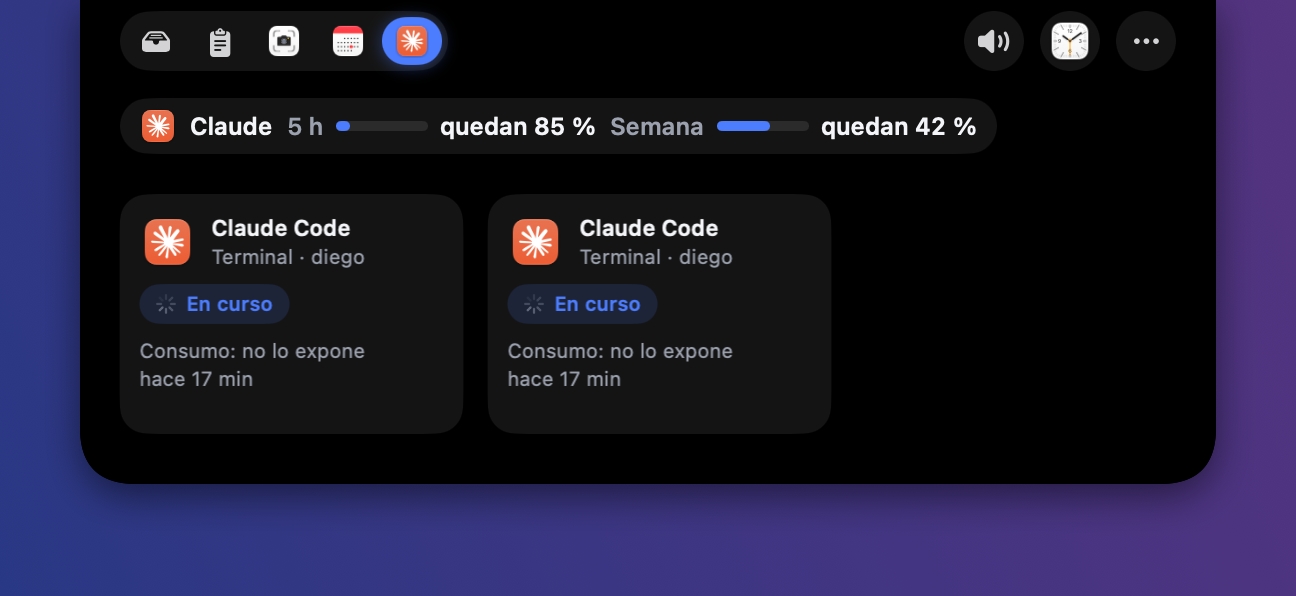
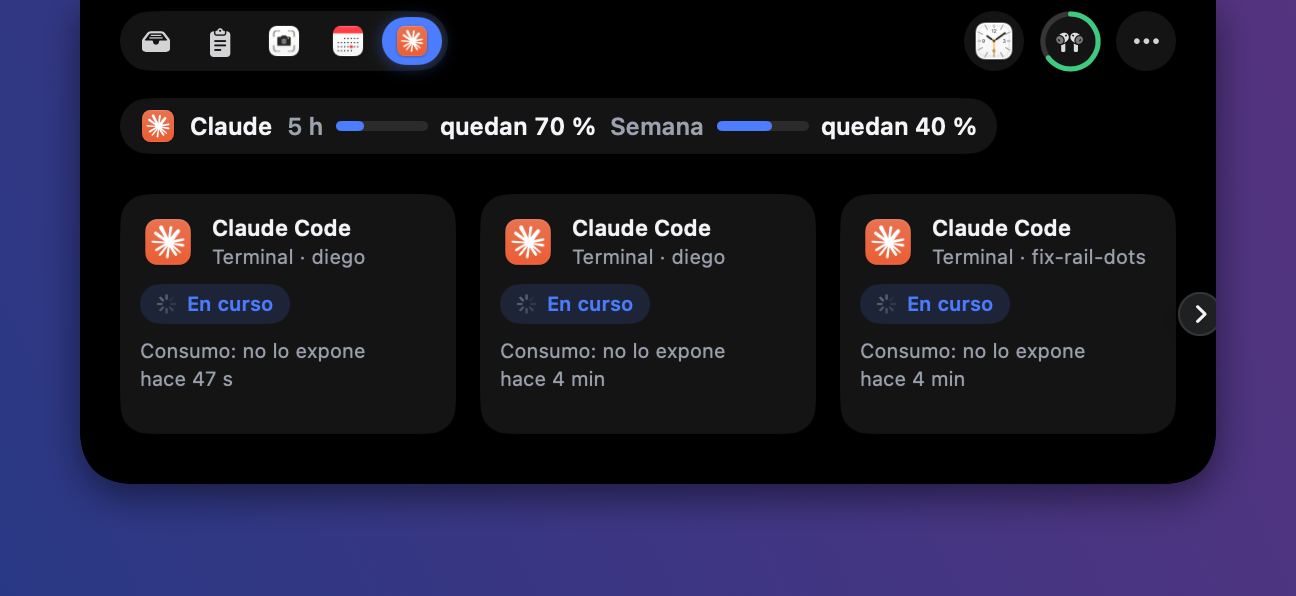
README visual, licencia MIT y ajustes del carrusel (0.17.0)
- README para quien lo descarga: para qué sirve, con capturas de demostración
- Licencia MIT
- El carrusel sigue al principio cuando llega algo nuevo; flechas en el margen
- Tres tarjetas de agentes por fila

diff --git a/Nook/DesignSystem/Carousel.swift b/Nook/DesignSystem/Carousel.swift
@@ -41,15 +41,20 @@ struct Carousel<Data: RandomAccessCollection, Card: View>: View where Data.Eleme
         .mask(Rectangle().padding(.horizontal, -6))
         .onGeometryChange(for: CGFloat.self) { $0.size.width } action: { viewport = $0 }
         .overlay(alignment: .leading) {
-            if canGoBack { arrow(-1).offset(x: -10) }
+            if canGoBack { arrow(-1).offset(x: -(margin + 1)) }
         }
         .overlay(alignment: .trailing) {
             // Siempre a la vista: asi se sabe que hay mas sin pasar el raton.
-            if canGoForward { arrow(1).offset(x: 10) }
+            if canGoForward { arrow(1).offset(x: margin + 1) }
         }
         .animation(AppMotion.snappy, value: canGoBack)
         .animation(AppMotion.snappy, value: canGoForward)
         .padding(.horizontal, margin)
+        // Si llega algo nuevo delante y estabas al principio, se sigue al principio.
+        .onChange(of: ids.first) { old, new in
+            guard let new, position == nil || position == old else { return }
+            withAnimation(AppMotion.snappy) { position = new }
+        }
     }
 
     /// Hueco para que quepan tarjetas enteras: tantas como entren con el minimo y
@@ -95,9 +100,9 @@ private struct CarouselArrow: View {
     var body: some View {
         Button(action: action) {
             Image(systemName: icon)
-                .font(.system(size: 12, weight: .bold))
+                .font(.system(size: 10, weight: .bold))
                 .foregroundStyle(AppColors.textPrimary)
-                .frame(width: 30, height: 30)
+                .frame(width: 22, height: 22)
                 .background(.regularMaterial, in: Circle())
                 .overlay(Circle().strokeBorder(AppColors.cardBorder, lineWidth: 1))
                 .shadow(color: AppColors.shadow, radius: 6, y: 2)

diff --git a/Nook/Features/Agents/AgentsView.swift b/Nook/Features/Agents/AgentsView.swift
@@ -32,7 +32,7 @@ struct AgentsView: View {
                     .frame(maxWidth: .infinity)
                     .frame(height: NotchMetrics.cardRowHeight)
             } else {
-                Carousel(data: monitor.sessions) { _, session in
+                Carousel(data: monitor.sessions, minSpacing: 8) { _, session in
                     Button { monitor.focus(session) } label: { AgentCard(session: session) }
                         .buttonStyle(.plain)
                         .help(Text("Ir a su terminal"))
@@ -188,7 +188,7 @@ private struct AgentCard: View {
             .lineLimit(1)
         }
         .padding(10)
-        .frame(width: 172, height: 120, alignment: .topLeading)
+        .frame(width: 168, height: 120, alignment: .topLeading)
         .liquidGlass(in: RoundedRectangle(cornerRadius: 14, style: .continuous))
     }
 

diff --git a/Nook/Features/Onboarding/OnboardingView.swift b/Nook/Features/Onboarding/OnboardingView.swift
@@ -462,7 +462,7 @@ struct NoticeGrid: View {
             Chip(symbol: "arrow.down.circle.fill", title: "Descargas", isOn: $downloads)
             Chip(symbol: "capslock.fill", title: "Bloq Mayús", isOn: $capsLock)
             Chip(symbol: "wifi", title: "Conexión", isOn: $network)
-            Chip(symbol: "mic.fill", title: "Micro en llamadas", isOn: $media)
+            Chip(symbol: "mic.fill", title: "Llamadas", isOn: $media)
             Chip(symbol: "video.fill", title: "Reuniones", isOn: $meetings)
             Chip(symbol: "envelope.fill", title: "Correo", isOn: $mailNotice)
             Chip(symbol: "bell.fill", title: "Notificaciones", isOn: $notifications)

diff --git a/Nook/DesignSystem/AppMotion.swift b/Nook/DesignSystem/AppMotion.swift
@@ -9,7 +9,7 @@ enum AppMotion {
     }
 
     /// Apertura: el panel sale del centro del notch y se agranda con un rebote suave
-    /// (mismo muelle que Droppy: 0,47 / 0,76).
+    /// (muelle 0,47 / 0,76).
     static var open: Animation {
         reduceMotion ? .easeInOut(duration: 0.15) : .spring(response: 0.47, dampingFraction: 0.76)
     }

diff --git a/README.md b/README.md
@@ -5,123 +5,116 @@
 <h1 align="center">Nook</h1>
 
 <p align="center">
-  <strong>El notch de tu Mac convertido en un sitio útil.</strong><br>
-  Bandeja de archivos, historial del portapapeles, calendario, correo, agentes de IA,
-  temporizadores y avisos del sistema, todo a un gesto del ratón.
+  <strong>El notch de tu Mac, convertido en un sitio útil.</strong><br>
+  Pasa el ratón por arriba y tienes a mano tus archivos, lo que copiaste, tu agenda,<br>
+  tu correo y tus agentes de IA. Sin ventanas, sin buscar, sin taparte nada.
 </p>
 
 <p align="center">
-  <img src="https://img.shields.io/badge/macOS-14.2%2B-1F5BFF" alt="macOS 14.2+">
-  <img src="https://img.shields.io/badge/Swift-SwiftUI%20%2B%20AppKit-1F5BFF" alt="Swift">
-  <img src="https://img.shields.io/badge/firmada-Developer%20ID%20%2B%20notarizada-4C7DFF" alt="Firmada y notarizada">
-  <img src="https://img.shields.io/badge/idiomas-ES%20%7C%20EN-4C7DFF" alt="ES y EN">
+  <img src="https://img.shields.io/badge/macOS-14.2%2B-1F5BFF" alt="macOS 14.2 o posterior">
+  <img src="https://img.shields.io/badge/firmada%20y%20notarizada-por%20Apple-4C7DFF" alt="Firmada y notarizada">
+  <img src="https://img.shields.io/badge/español%20%7C%20english-4C7DFF" alt="Español e inglés">
+  <img src="https://img.shields.io/badge/licencia-MIT-4C7DFF" alt="Licencia MIT">
 </p>
 
 <p align="center">
-  <img src="docs/images/bandeja.png" width="720" alt="Panel de Nook abierto bajo el notch con cuatro archivos en la bandeja">
+  <img src="docs/images/bandeja.png" width="760" alt="Nook abierto bajo el notch con cuatro archivos en la bandeja">
 </p>
 
 ---
 
-## Cómo funciona
+## Deja cosas a mano
 
-Pasa el ratón por el notch y el panel sale de él con un muelle suave. Cerrado, el notch
-mide exactamente lo mismo que el recorte de la pantalla (MacBook Air y MacBook Pro); cuando
-pasa algo, se ensancha lo justo para avisarte a los lados y vuelve a su sitio.
+Arrastra un archivo, una imagen o un texto al notch y ahí se queda hasta que lo necesites.
+Luego lo sacas arrastrando a donde quieras: un correo, un chat, una carpeta. Aunque cierres
+el Mac, sigue ahí.
 
-Arriba están las pestañas (bandeja, portapapeles, capturas, calendario, agentes) y, a la
-derecha, el reloj con temporizadores y alarmas, la batería de tus AirPods (cuando están
-conectados) y el menú.
+> ¿Arrastrando y sin llegar al notch? **Agita el ratón** y aparece una cesta flotante.
 
-## Bandeja
-
-Arrastra archivos, imágenes o texto al notch y se quedan a mano, con su vista previa real,
-hasta que los saques arrastrando. Nook guarda una copia, así que siguen ahí aunque borres el
-original o reinicies el Mac.
-
-- **Cesta al agitar:** agita el ratón mientras arrastras archivos y aparece una cesta flotante.
-- **Vista previa grande y Quick Look**, compartir por AirDrop, comprimir en `.zip`, convertir
-  imágenes (PNG, JPEG, HEIC) y copiar el texto de una imagen (OCR local).
-- Con más de los que caben, las tarjetas pasan en **carrusel**: flechas a los lados y
-  desplazamiento lateral.
-
-## Historial del portapapeles
+## Recupera lo que copiaste
 
 <p align="center">
-  <img src="docs/images/historial.png" width="720" alt="Historial del portapapeles con buscador y filtros por tipo">
+  <img src="docs/images/historial.png" width="760" alt="Historial del portapapeles con un enlace, una dirección, un comando y una nota">
 </p>
 
-Todo lo que copias queda guardado (texto, enlaces, imágenes y archivos) con el icono de la
-app de origen. Filtra por tipo, busca, incluso dentro de las imágenes, y fija lo importante.
+Todo lo que copias queda guardado: textos, enlaces, imágenes y archivos. Busca lo que
+copiaste ayer (incluso el texto que hay dentro de una captura) y pégalo con
+<kbd>⌃</kbd> <kbd>⌘</kbd> <kbd>V</kbd> desde cualquier app. Las contraseñas no se guardan.
 
-- <kbd>⌃</kbd> <kbd>⌘</kbd> <kbd>V</kbd> desde cualquier app abre el historial; al elegir, se
-  pega directamente donde estabas.
-- Lo que los gestores de contraseñas marcan como privado no se guarda. Nunca se borra solo.
+## Tu día de un vistazo
 
-## Agentes de IA
+- **Agenda** de hoy y los próximos días, con un botón para **unirte a la reunión** y una
+  cuenta atrás en el notch cuando está a punto de empezar.
+- **Recordatorios** pendientes, para tacharlos sin abrir nada.
+- **Escribe y listo:** «Café con Ana mañana a las 10» crea el evento.
+- **Correo:** quién te ha escrito y de qué va. Ábrelo y léelo en el propio notch, responde
+  o márcalo como leído. Funciona con Mail y con Outlook.
+
+## Tus agentes de IA, sin perderlos de vista
 
 <p align="center">
-  <img src="docs/images/agentes.png" width="720" alt="Pestaña de agentes con dos sesiones de Claude Code en curso y el consumo restante">
+  <img src="docs/images/agentes.png" width="760" alt="Tres sesiones de Claude Code en curso y el consumo restante de la suscripción">
 </p>
 
-Las sesiones de agentes de código abiertas en tu Mac, con su estado (en curso, esperando,
-terminado), el proyecto y el consumo que queda en la ventana de 5 horas y en la semana.
+Si trabajas con agentes de código, Nook te avisa **cuando uno termina o se queda esperando
+tu respuesta**. Un clic en su tarjeta y estás en su terminal. Y ves cuánto te queda de la
+suscripción antes de quedarte sin.
 
-## Calendario, recordatorios y correo
+## Avisos que no estorban
 
-- **Calendario** de Apple con todas tus cuentas de *Cuentas de Internet*, incluido Microsoft
-  365/Outlook. Entrada rápida en lenguaje natural ("Café con Ana mañana a las 10").
-- **Recordatorios del día**: vencidos, de hoy y sin fecha, con su casilla para completarlos.
-  Si escribes algo sin fecha en la entrada rápida, se guarda como recordatorio.
-- **Controles de reunión**: cuenta atrás antes de cada reunión y botón para unirte.
-- **Correo sin leer** de Mail o de Outlook clásico: quién te escribe y el asunto, y un aviso
-  en el notch al llegar uno nuevo.
+Volumen, batería, AirPods conectados, descargas terminadas, reuniones, correos nuevos,
+notificaciones… salen a los lados del notch un momento y se van. Nunca tapan los iconos de
+la barra de menús: si no hay sitio en un lado, usan el otro.
 
-## Avisos en el notch
+Con tus **AirPods** puestos, verás su batería en un aro; un clic y tienes la de cada
+auricular y la del estuche.
 
-Volumen, batería y cargador, auriculares y altavoces Bluetooth (con su batería), conexión y
-VPN, descargas terminadas, micrófono o cámara durante una llamada, notificaciones del sistema,
-temporizadores y alarmas. Cada aviso crece solo hasta los menús y los iconos de la barra, sin
-taparlos, y se puede desactivar en Ajustes.
+## Y unos cuantos atajos
 
-**AirPods:** con ellos conectados, la cabecera muestra su modelo en un aro de batería; al
-pulsarlo ves el izquierdo, el derecho y el estuche.
-
-## Atajos y herramientas
-
-| Atajo | Qué hace |
+| | |
 |---|---|
-| <kbd>⌥</kbd> <kbd>Espacio</kbd> | **Lanzador**: abre apps y archivos, calcula (`15% de 80`) y convierte unidades (`10 km en mi`). |
-| <kbd>⌃</kbd> <kbd>⌘</kbd> <kbd>V</kbd> | Historial del portapapeles. |
+| <kbd>⌥</kbd> <kbd>Espacio</kbd> | Abre apps y archivos, calcula y convierte unidades. |
+| <kbd>⌃</kbd> <kbd>⌘</kbd> <kbd>V</kbd> | Historial de lo que has copiado. |
 | <kbd>⌃</kbd> <kbd>⌥</kbd> <kbd>Espacio</kbd> | Anillo de acciones junto al cursor. |
-| <kbd>⌃</kbd> <kbd>⌥</kbd> + flechas | Ajustar ventanas: mitades, cuartos, tercios, maximizar y centrar. |
+| <kbd>⌃</kbd> <kbd>⌥</kbd> + flechas | Coloca la ventana a la mitad, en un cuarto, a pantalla completa… |
+| Seleccionar texto | Cópialo, búscalo, tradúcelo o guárdalo con un clic. |
 
-Además: acciones al seleccionar texto (copiar, buscar, traducir, a la bandeja), dictado,
-captura de una zona con OCR.
+## Se configura solo, paso a paso
 
-## Primer arranque y permisos
+La primera vez que lo abres, Nook te acompaña: qué es, cómo conectar tu calendario y tu
+correo (Apple u Outlook), qué permisos desbloquean qué y qué atajos quieres. Todo es
+opcional y se puede cambiar después.
 
-Al abrir Nook por primera vez, una introducción te guía: calendario y recordatorios, correo
-(Mail de Apple u Outlook), permisos avanzados y qué atajos y avisos quieres. Nook funciona sin
-permisos especiales; cada uno desbloquea algo concreto:
+<table>
+  <tr>
+    <td><img src="docs/images/bienvenida.png" alt="Bienvenida a Nook"></td>
+    <td><img src="docs/images/calendario-correo.png" alt="Conectar calendario, recordatorios y correo"></td>
+  </tr>
+  <tr>
+    <td><img src="docs/images/permisos.png" alt="Permisos opcionales y para qué sirve cada uno"></td>
+    <td><img src="docs/images/atajos-avisos.png" alt="Elegir atajos y avisos"></td>
+  </tr>
+</table>
 
-| Permiso | Para qué |
-|---|---|
-| Calendarios y Recordatorios | Eventos, reuniones y recordatorios del día. |
-| Accesibilidad | Pegar desde el historial, ajustar ventanas, texto seleccionado, controles de reunión. |
-| Acceso total al disco | Leer las notificaciones del sistema (solo las nuevas; no se guardan). |
-| Automatización (Mail / Outlook) | Ver los correos sin leer. |
+## Tu privacidad
 
-Nada sale de tu Mac: no hay servidores ni analítica.
+- **Nada sale de tu Mac.** Sin cuentas, sin servidores, sin analítica.
+- Del correo solo se lee lo que ves, y las imágenes remotas no se cargan hasta que lo pides.
+- Puedes ocultar el panel de las capturas y grabaciones de pantalla.
 
 ## Instalar
 
-Descarga el DMG de la última versión, arrastra Nook a Aplicaciones y ábrelo. Está firmado con
-Developer ID y notarizado por Apple, así que se abre sin avisos de Gatekeeper.
+1. Descarga el último `Nook-x.y.z.dmg` desde [Releases](../../releases/latest).
+2. Arrastra Nook a **Aplicaciones** y ábrelo.
 
-## Compilar
+Funciona en cualquier Mac con macOS 14.2 o posterior; en los que no tienen notch aparece
+como una pastilla arriba en el centro.
 
-Requisitos: Xcode 26 o posterior y [XcodeGen](https://github.com/yonaskolb/XcodeGen).
+<details>
+<summary><strong>Para desarrolladores</strong></summary>
+
+Hecho en Swift con SwiftUI y AppKit. Hace falta Xcode 26 y
+[XcodeGen](https://github.com/yonaskolb/XcodeGen).
 
 ```bash
 xcodegen generate
@@ -129,17 +122,11 @@ xcodebuild -project Nook.xcodeproj -scheme Nook -derivedDataPath build/dd build
 xcodebuild -project Nook.xcodeproj -scheme Nook -derivedDataPath build/dd test
 ```
 
-La build Debug usa su propio identificador y sus propios datos, así que probarla no toca la
-bandeja ni el historial de la app instalada. Argumentos solo de Debug:
+La versión de desarrollo usa sus propios datos, así que no toca los de la app instalada.
+Para distribuir: `NOTARY_PROFILE=<perfil-de-notarytool> ./scripts/release.sh`.
 
-- `-NookOpen shelf|clipboard|screenshots|calendar|agents|mail` abre esa pestaña al arrancar.
-- `-hideFromCaptures NO` deja ver el panel en capturas de pantalla.
-- `-mailEnabled NO`, `-captureClipboard NO` desactivan el correo y el historial.
+</details>
 
-## Distribución
+## Licencia
 
-```bash
-NOTARY_PROFILE=keyfold-notary ./scripts/release.sh   # DMG firmado, notarizado y grapado
-```
-
-El DMG queda en `dist/`.
+[MIT](LICENSE)
